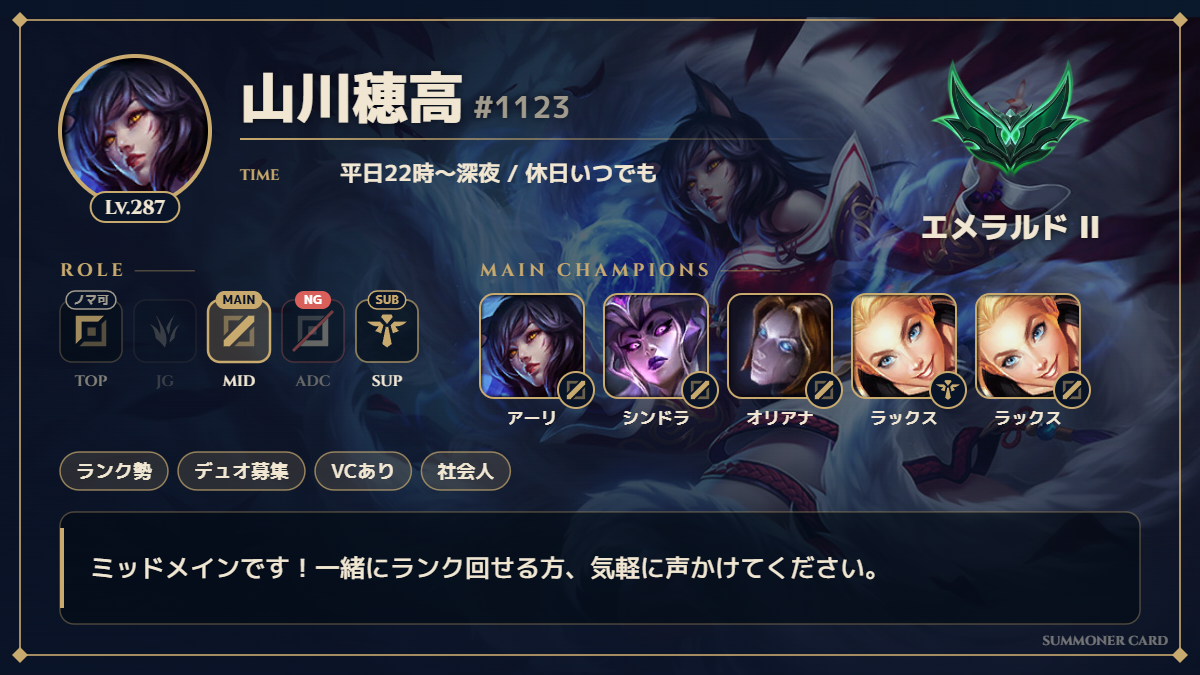
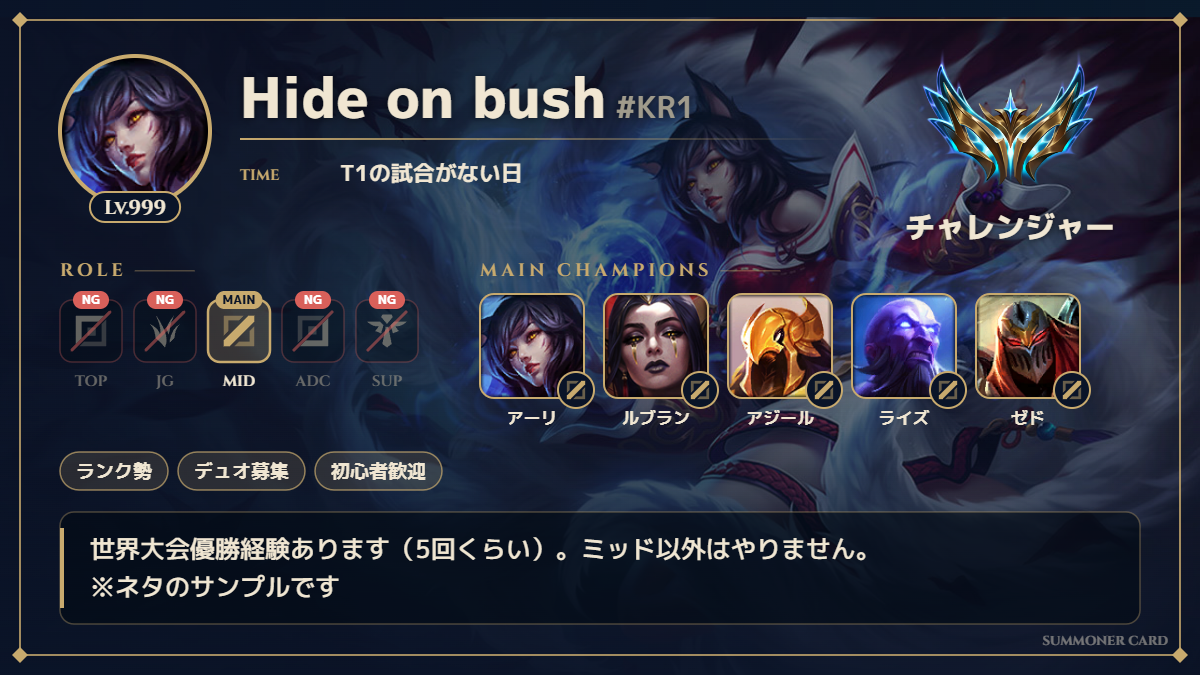
Replace the sample with an obvious parody card
Hide on bush #KR1 as a clearly marked joke (Challenger, mid-only, signature
champions, ※ネタのサンプルです), with all contact fields empty. Regenerate
the link preview image and change the name placeholder.

diff --git a/js/data.js b/js/data.js
@@ -110,27 +110,26 @@ export const DEFAULT_STATE = {
   theme: 'hextech',
 };
 
+// A parody sample (clearly marked as a joke in the comment). Contact fields stay empty
+// so nothing on the card can be mistaken for a real person's accounts.
 export const SAMPLE_STATE = {
   ...DEFAULT_STATE,
-  name: '山川穂高',
-  tag: '1123',
-  level: '287',
+  name: 'Hide on bush',
+  tag: 'KR1',
+  level: '999',
   iconChamp: 'Ahri',
-  tier: 'EMERALD',
-  division: 'II',
-  roleLevels: { middle: 'main', utility: 'sub', top: 'normal', bottom: 'ng' },
+  tier: 'CHALLENGER',
+  roleLevels: { middle: 'main', top: 'ng', jungle: 'ng', bottom: 'ng', utility: 'ng' },
   champs: [
     { id: 'Ahri', role: 'middle' },
-    { id: 'Syndra', role: 'middle' },
-    { id: 'Orianna', role: 'middle' },
-    { id: 'Lux', role: 'utility' },
-    { id: 'Lux', role: 'middle' },
+    { id: 'Leblanc', role: 'middle' },
+    { id: 'Azir', role: 'middle' },
+    { id: 'Ryze', role: 'middle' },
+    { id: 'Zed', role: 'middle' },
   ],
-  tags: ['ランク勢', 'デュオ募集', 'VCあり', '社会人'],
-  hours: '平日22時〜深夜 / 休日いつでも',
-  discord: 'poro_love',
-  x: 'poro_love_lol',
-  comment: 'ミッドメインです！一緒にランク回せる方、気軽に声かけてください。',
+  tags: ['ランク勢', 'デュオ募集', '初心者歓迎'],
+  hours: 'T1の試合がない日',
+  comment: '世界大会優勝経験あります（5回くらい）。ミッド以外はやりません。\n※ネタのサンプルです',
   splashChamp: 'Ahri',
   splashSkin: 0,
   bgOffY: 0.05,

diff --git a/index.html b/index.html
@@ -48,7 +48,7 @@
         <button type="button" class="section-clear" data-clear="basic">クリア</button>
         <div class="row">
           <label class="field grow">サモナーネーム
-            <input name="name" maxlength="16" placeholder="例：山川穂高">
+            <input name="name" maxlength="16" placeholder="例：サモナー太郎">
           </label>
           <label class="field tag">タグ
             <span class="prefix"><input name="tag" maxlength="5" placeholder="JP1"></span>
